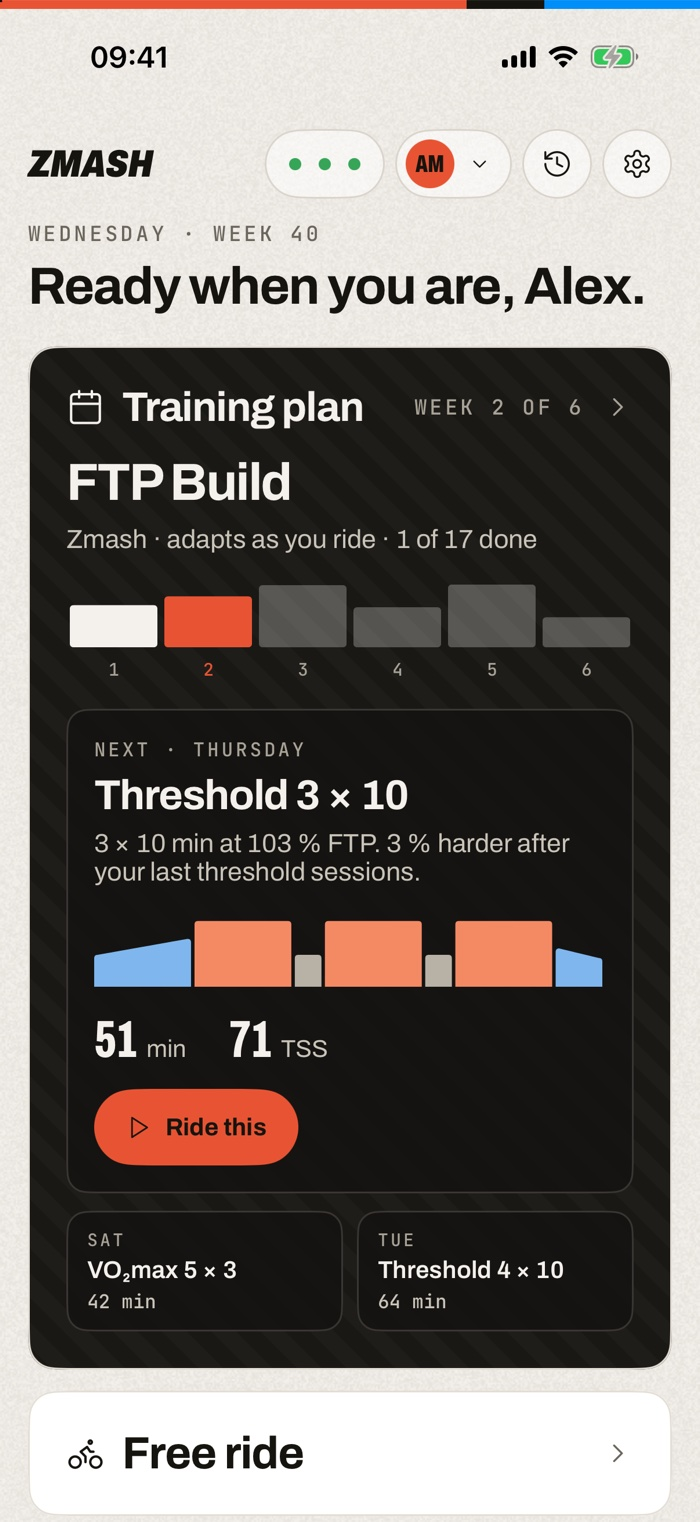
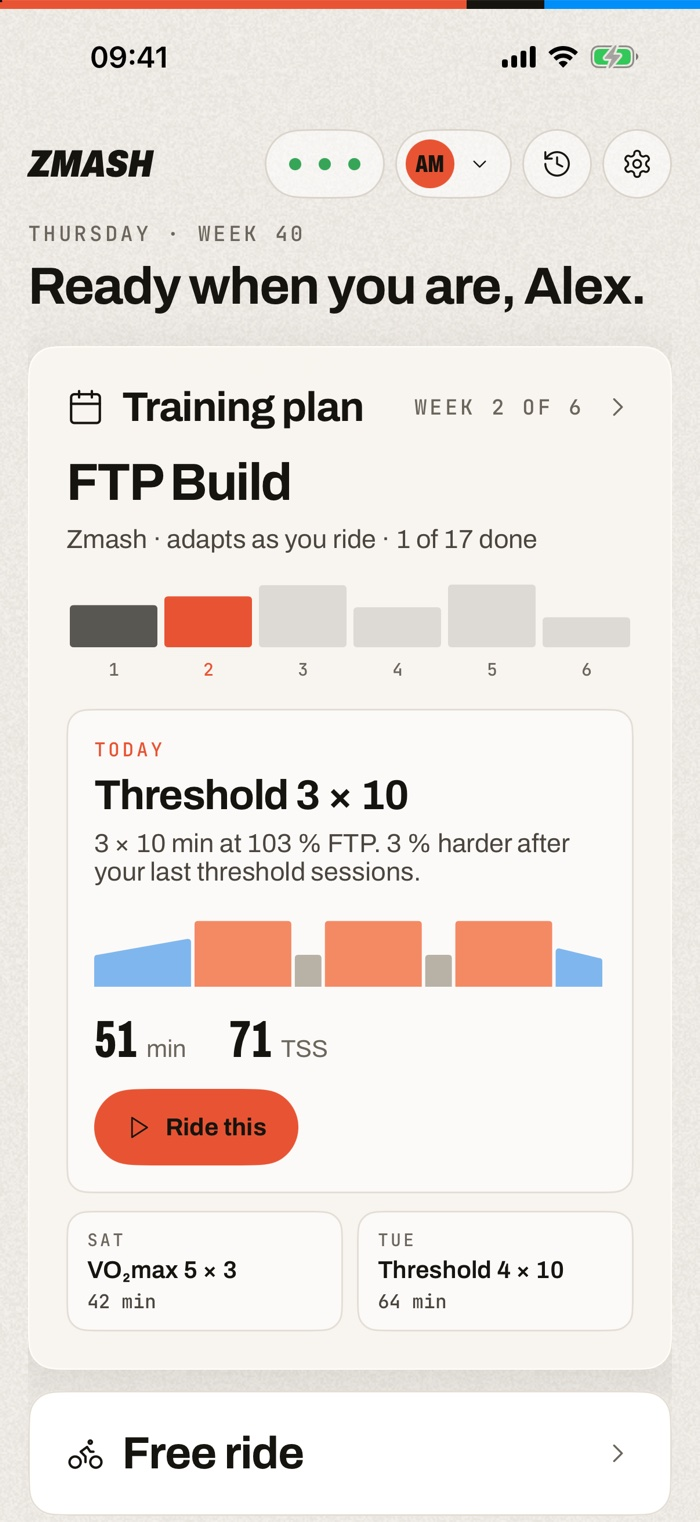
The plan page and a workout's details on glass too (D177)
After home's plan card went to glass (D176), the Plan page's plan and a
workout's details were the last dark heroes beside it. Both are glass now,
with the page's colours. The glass answers a touch only on home's card,
the one that's a button. The README's home, plan, workout and iPhone
screenshots are retaken with the glass.

diff --git a/Zmash/UI/Setup/PlanView.swift b/Zmash/UI/Setup/PlanView.swift
@@ -1,10 +1,10 @@
 import SwiftUI
 import ZmashKit
 
-/// A training plan, Zmash's or the catalog's (D156), as cards (D157). Before you start it: the plan as the hero, beside
-/// how to start it, then its weeks. Once you're on it: the plan as the hero too (D174), with where you are and what you
-/// can change (the plan, your days), beside the next session, then this week's sessions, then every week, the one
-/// you're in ringed.
+/// A training plan, Zmash's or the catalog's (D156), as cards (D157). Before you start it: the plan as the hero, on
+/// glass as on home (D177), beside how to start it, then its weeks. Once you're on it: the plan as the hero too (D174),
+/// with where you are and what you can change (the plan, your days), beside the next session, then this week's
+/// sessions, then every week, the one you're in ringed.
 struct PlanView: View {
     let plan: TrainingPlan
     /// Home's preview goes back to the workout once a session is set up.
@@ -89,26 +89,27 @@ struct PlanView: View {
         let minutes = plan.weeks.map { $0.map(PlanStore.minutes).reduce(0, +) }
         let perWeek = minutes.reduce(0, +) / max(plan.weeks.count, 1)
         return VStack(alignment: .leading, spacing: 0) {
-            Text(PlanPage.source(plan)).monoLabel().foregroundStyle(Design.Palette.fgOnHero2).lineLimit(1)
-            Text(plan.name).textStyle(.display, size: compact ? 30 : 42).foregroundStyle(Design.Palette.fgOnHero)
+            Text(PlanPage.source(plan)).monoLabel().foregroundStyle(Design.Palette.fg3).lineLimit(1)
+            Text(plan.name).textStyle(.display, size: compact ? 30 : 42).foregroundStyle(Design.Palette.fg1)
                 .lineLimit(2).minimumScaleFactor(0.7)
                 .padding(.top, 8)
-            Text(plan.summary).font(Design.Font.sans(15)).foregroundStyle(Design.Palette.fgOnHeroBody)
+            Text(plan.summary).font(Design.Font.sans(15)).foregroundStyle(Design.Palette.fg2)
                 .lineSpacing(3)
                 .frame(maxWidth: 520, alignment: .leading)
                 .fixedSize(horizontal: false, vertical: true)
                 .padding(.top, 8)
             Spacer(minLength: 20)
-            PlanBars(plan: plan, hero: true).frame(height: compact ? 70 : 110)
+            PlanBars(plan: plan, glass: true).frame(height: compact ? 70 : 110)
             Spacer(minLength: 20)
             HStack(alignment: .lastTextBaseline, spacing: 24) {
-                HeroFigure(value: "\(plan.weeks.count)", unit: plan.weeks.count == 1 ? "week" : "weeks")
-                HeroFigure(value: "\(plan.sessionsPerWeek)", unit: "rides a week")
-                HeroFigure(value: String(format: "%d:%02d", perWeek / 60, perWeek % 60), unit: "h a week")
+                HeroFigure(value: "\(plan.weeks.count)", unit: plan.weeks.count == 1 ? "week" : "weeks", hero: false)
+                HeroFigure(value: "\(plan.sessionsPerWeek)", unit: "rides a week", hero: false)
+                HeroFigure(value: String(format: "%d:%02d", perWeek / 60, perWeek % 60), unit: "h a week", hero: false)
             }
         }
         .frame(maxWidth: .infinity, maxHeight: .infinity, alignment: .topLeading)
-        .card(padding: compact ? 22 : 28, hero: true)
+        .padding(compact ? 22 : 28)
+        .glassCard()
     }
 
     /// Your days, this week or next, and Start.
@@ -173,8 +174,7 @@ struct PlanView: View {
         (0..<7).map { (calendar.firstWeekday - 1 + $0) % 7 + 1 }
     }
 
-    /// On the hero (changing your days while on the plan, D174): bone for a day you ride, glass for one you don't.
-    private func dayPicker(_ days: Binding<Set<Int>>, hero: Bool = false) -> some View {
+    private func dayPicker(_ days: Binding<Set<Int>>) -> some View {
         HStack(spacing: 8) {
             ForEach(orderedWeekdays, id: \.self) { d in
                 let on = days.wrappedValue.contains(d)
@@ -183,11 +183,9 @@ struct PlanView: View {
                 } label: {
                     Text(calendar.veryShortWeekdaySymbols[d - 1])
                         .font(Design.Font.label)
-                        .foregroundStyle(hero ? (on ? Design.Tarmac.t900 : Design.Palette.fgOnHero)
-                                              : (on ? Design.Palette.background : Design.Palette.primary))
+                        .foregroundStyle(on ? Design.Palette.background : Design.Palette.primary)
                         .frame(width: 44, height: 44)
-                        .background(Circle().fill(hero ? (on ? Design.Palette.fgOnHero : Design.Tarmac.glass)
-                                                       : (on ? Design.Palette.primary : Design.Palette.surfaceSunk)))
+                        .background(Circle().fill(on ? Design.Palette.primary : Design.Palette.surfaceSunk))
                 }
                 .buttonStyle(.plain)
                 .accessibilityLabel(calendar.weekdaySymbols[d - 1])
@@ -307,18 +305,18 @@ struct PlanView: View {
                               week: Int) -> some View {
         let current = PlanStore.week(e)
         return VStack(alignment: .leading, spacing: 0) {
-            Text(PlanPage.source(plan)).monoLabel().foregroundStyle(Design.Palette.fgOnHero2).lineLimit(1)
-            Text(plan.name).textStyle(.display, size: compact ? 30 : 42).foregroundStyle(Design.Palette.fgOnHero)
+            Text(PlanPage.source(plan)).monoLabel().foregroundStyle(Design.Palette.fg3).lineLimit(1)
+            Text(plan.name).textStyle(.display, size: compact ? 30 : 42).foregroundStyle(Design.Palette.fg1)
                 .lineLimit(2).minimumScaleFactor(0.7)
                 .padding(.top, 8)
             Spacer(minLength: 20)
             // Its weeks as tall as their riding, numbered underneath, as on home.
             VStack(spacing: 6) {
-                PlanBars(plan: plan, hero: true, week: current).frame(height: compact ? 70 : 110)
+                PlanBars(plan: plan, glass: true, week: current).frame(height: compact ? 70 : 110)
                 HStack(spacing: 0) {
                     ForEach(0..<plan.weeks.count, id: \.self) { w in
                         Text("\(w + 1)").font(Design.Font.mono(10))
-                            .foregroundStyle(w == current ? Design.Accent.vermilion : Design.Palette.fgOnHero2)
+                            .foregroundStyle(w == current ? Design.Accent.vermilion : Design.Palette.fg3)
                             .frame(maxWidth: .infinity)
                     }
                 }
@@ -336,11 +334,11 @@ struct PlanView: View {
             Group {
                 if let days = newDays {
                     VStack(alignment: .leading, spacing: 12) {
-                        Text("Your ride days").monoLabel().foregroundStyle(Design.Palette.fgOnHero2)
+                        Text("Your ride days").monoLabel().foregroundStyle(Design.Palette.fg3)
                             .accessibilityAddTraits(.isHeader)
-                        dayPicker(Binding(get: { newDays ?? days }, set: { newDays = $0 }), hero: true)
+                        dayPicker(Binding(get: { newDays ?? days }, set: { newDays = $0 }))
                         HStack(spacing: 8) {
-                            PillButton(title: "Save days", style: .tarmac, compact: true, enabled: !days.isEmpty) {
+                            PillButton(title: "Save days", style: .invert, compact: true, enabled: !days.isEmpty) {
                                 var changed = e
                                 changed.weekdays = days
                                 PlanStore.save(changed)
@@ -348,7 +346,7 @@ struct PlanView: View {
                                 newDays = nil
                             }
                             .fixedSize()
-                            PillButton(title: "Cancel", style: .glass, compact: true) { newDays = nil }.fixedSize()
+                            PillButton(title: "Cancel", compact: true) { newDays = nil }.fixedSize()
                         }
                     }
                 } else {
@@ -358,8 +356,8 @@ struct PlanView: View {
             .padding(.top, 20)
         }
         .frame(maxWidth: .infinity, maxHeight: .infinity, alignment: .topLeading)
-        .card(padding: compact ? 22 : 28, hero: true)
-        .environment(\.onTarmac, true)
+        .padding(compact ? 22 : 28)
+        .glassCard()
     }
 
     private func actions(_ e: PlanEnrolment) -> some View {
@@ -379,16 +377,14 @@ struct PlanView: View {
     @ViewBuilder
     private func changeButtons(_ e: PlanEnrolment) -> some View {
         if let changePlan {
-            PillButton(title: "Change plan", icon: "refresh-cw", style: .glass, compact: true, action: changePlan).fixedSize()
+            PillButton(title: "Change plan", icon: "refresh-cw", compact: true, action: changePlan).fixedSize()
         }
-        PillButton(title: "Ride days", icon: "calendar-days", style: .glass, compact: true) { newDays = e.weekdays }.fixedSize()
+        PillButton(title: "Ride days", icon: "calendar-days", compact: true) { newDays = e.weekdays }.fixedSize()
     }
 
     private var leaveButton: some View {
-        // Quiet on the hatch: the dialog after it asks before anything's lost.
         Button("Leave the plan", role: .destructive) { confirmLeave = true }
-            .font(Design.Font.small).foregroundStyle(Design.Palette.fgOnHero2)
-            .buttonStyle(.plain).frame(minHeight: 44)
+            .font(Design.Font.small).buttonStyle(.plain).frame(minHeight: 44)
             .fixedSize()
     }
 
@@ -541,10 +537,9 @@ struct PlanView: View {
 
     /// A session's shape: the climb's profile, or the workout's blocks at its notch.
     @ViewBuilder
-    private func shape(_ w: Int, _ i: Int, hero: Bool = false) -> some View {
+    private func shape(_ w: Int, _ i: Int) -> some View {
         if case .route(let id) = plan.weeks[w][i], let route = RaceStore.climb(id: id)?.route {
-            RouteStrip(route: route, color: hero ? Design.Palette.fgOnHero : Design.Palette.fg1,
-                       fill: hero ? Design.Accent.teamBlue.opacity(0.38) : Design.Palette.terrainFill)
+            RouteStrip(route: route)
         } else if let workout = PlanStore.workout(id: "plan/\(plan.id)/\(w)-\(i)") {
             WorkoutStrip(workout: workout.drawable)
         }

diff --git a/Zmash/UI/Home/WorkoutDetail.swift b/Zmash/UI/Home/WorkoutDetail.swift
@@ -54,14 +54,14 @@ struct WorkoutDetail: View {
         let work = zones.dropFirst(2).reduce(0, +)
         return VStack(alignment: .leading, spacing: 0) {
             HStack(spacing: 10) {
-                Tag(title: kind.title, color: Design.Palette.fgOnHero)
-                Text(source).monoLabel().foregroundStyle(Design.Palette.fgOnHero2).lineLimit(1)
+                Tag(title: kind.title, color: Design.Palette.fg1)
+                Text(source).monoLabel().foregroundStyle(Design.Palette.fg3).lineLimit(1)
             }
-            Text(workout.name).textStyle(.display, size: compact ? 30 : 40).foregroundStyle(Design.Palette.fgOnHero)
+            Text(workout.name).textStyle(.display, size: compact ? 30 : 40).foregroundStyle(Design.Palette.fg1)
                 .lineLimit(2).minimumScaleFactor(0.7)
                 .padding(.top, 12)
             if !workout.summary.isEmpty {
-                Text(workout.summary).font(Design.Font.sans(15)).foregroundStyle(Design.Palette.fgOnHeroBody)
+                Text(workout.summary).font(Design.Font.sans(15)).foregroundStyle(Design.Palette.fg2)
                     .lineSpacing(3).lineLimit(8)
                     .frame(maxWidth: 560, alignment: .leading)
                     .fixedSize(horizontal: false, vertical: true)
@@ -78,18 +78,19 @@ struct WorkoutDetail: View {
             .padding(.top, 22)
         }
         .frame(maxWidth: .infinity, alignment: .topLeading)
-        .card(padding: compact ? 22 : 28, hero: true)
+        .padding(compact ? 22 : 28)
+        .glassCard()
     }
 
     private func figures(load: Training.Load, work: Int) -> some View {
         HStack(alignment: .lastTextBaseline, spacing: 24) {
             if workout.isRampTest {
-                HeroFigure(value: "~20", unit: "min, until you stop")
+                HeroFigure(value: "~20", unit: "min, until you stop", hero: false)
             } else {
-                HeroFigure(value: "\(workout.duration / 60)", unit: "min")
-                HeroFigure(value: "\(Int(load.tss.rounded()))", unit: "TSS")
-                HeroFigure(value: String(format: "%.2f", load.intensityFactor).replacingOccurrences(of: "0.", with: "."), unit: "IF")
-                if work >= 60 { HeroFigure(value: "\(work / 60)", unit: "min of work") }
+                HeroFigure(value: "\(workout.duration / 60)", unit: "min", hero: false)
+                HeroFigure(value: "\(Int(load.tss.rounded()))", unit: "TSS", hero: false)
+                HeroFigure(value: String(format: "%.2f", load.intensityFactor).replacingOccurrences(of: "0.", with: "."), unit: "IF", hero: false)
+                if work >= 60 { HeroFigure(value: "\(work / 60)", unit: "min of work", hero: false) }
             }
         }
     }
@@ -104,7 +105,7 @@ struct WorkoutDetail: View {
             Spacer()
             Text(TimeFormat.clock(d))
         }
-        .font(Design.Font.mono(11)).foregroundStyle(Design.Palette.fgOnHero2)
+        .font(Design.Font.mono(11)).foregroundStyle(Design.Palette.fg3)
         .accessibilityHidden(true)
     }
 

diff --git a/Zmash/UI/DesignSystem/Components.swift b/Zmash/UI/DesignSystem/Components.swift
@@ -162,14 +162,15 @@ extension View {
             .environment(\.onHero, hero)
     }
 
-    /// A pane of glass (D176), for the plan on home: lighter than the hatch hero, and still set apart from the plain
-    /// cards. The system's Liquid Glass from iOS 26, which lights its edges and answers a touch; before that, frosted
-    /// material with a hairline.
+    /// A pane of glass (D176, D177), for the hero cards (the plan on home and on its page, a workout's details):
+    /// lighter than the hatch, and still set apart from the plain cards. The system's Liquid Glass from iOS 26, which
+    /// lights its edges, and answers a touch when the card is a button (`interactive`); before that, frosted material
+    /// with a hairline.
     @ViewBuilder
-    func glassCard(radius: CGFloat = Design.Radius.lg) -> some View {
+    func glassCard(radius: CGFloat = Design.Radius.lg, interactive: Bool = false) -> some View {
         let shape = RoundedRectangle(cornerRadius: radius, style: .continuous)
         if #available(iOS 26.0, *) {
-            self.glassEffect(.regular.interactive(), in: shape)
+            self.glassEffect(interactive ? .regular.interactive() : .regular, in: shape)
         } else {
             self.background {
                 shape.fill(.ultraThinMaterial)

diff --git a/Zmash/UI/Home/HomeCards.swift b/Zmash/UI/Home/HomeCards.swift
@@ -144,7 +144,7 @@ struct PlanHero: View {
         }
         .padding(compact ? 22 : 28)
         .frame(maxWidth: .infinity, maxHeight: .infinity, alignment: .topLeading)
-        .glassCard()
+        .glassCard(interactive: true)
         .contentShape(RoundedRectangle(cornerRadius: Design.Radius.lg))
         .onTapGesture { if let entry = plannedToday { openWorkout(session(entry)) } else { open() } }
         .accessibilityAction(named: plannedToday == nil ? "Open the plans" : "Open the workout") {

diff --git a/CLAUDE.md b/CLAUDE.md
@@ -63,14 +63,14 @@ make workouts      # build Zmash/Resources/Workouts/catalog.json from the .zwo f
 - **The UI follows the design system:** `design/Zmash Design System/`. Its readme and `Zmash Tablet App.dc.html` (the prototype) are the reference for layout and components.
   - Tokens: `Design.Palette` / `Font` / `Space` / `Radius` / `Motion`, `.textStyle`, `.monoLabel`, `.card()`, `CardBackground(hero:)`.
   - Shapes: pills for buttons, chips and tabs; 16-pt cards with 1-pt borders and no shadows; a vermilion ring for "chosen".
-  - Home's plan card is glass (`.glassCard()`, D176), on purpose: the one exception to the hatch hero.
+  - The plan (on home and its page) and a workout's details are glass heroes (`.glassCard()`, D176, D177), on purpose; the campaign card and Palmarès keep the hatch.
   - Don't add bib numbers (01, 02…) to cards: the user removed them.
 - **Voice:** a calm teammate. Short, direct, second person, sentence case, no exclamation marks or emoji. Mono uppercase is for small labels only.
 - **Comments:** explain *why*. Follow the surrounding density: doc comments on types and non-obvious members, often citing the decision (`(D151)`).
 
 ## Working conventions
 
-- **Record every change** in `DECISIONS.md`, as the next **D-number** (the last is D176). Add checks that need real hardware to `TESTING.md`.
+- **Record every change** in `DECISIONS.md`, as the next **D-number** (the last is D177). Add checks that need real hardware to `TESTING.md`.
 - **Commits:** small, one per decision, with a message saying what and why.
 - **Licences:** `external sources/` holds other projects for reference (Auuki is AGPL). Re-implement ideas from public specs, never copy code.
 - **Checking UI changes:** build, then take Simulator screenshots using `DebugLaunch`'s launch arguments. The main ones:

diff --git a/DECISIONS.md b/DECISIONS.md
@@ -1191,6 +1191,12 @@ Plans now have a goal (Build, Climb, Endurance, Maintain), and the picker groups
 - **The plan's weeks stay quiet** (`PlanBars(glass:)`), as on the hatch: weeks ridden in soft ink, the ones to come faint, and yours in vermilion. The page's light blue for the weeks to come drowned it out.
 - Light and dark both; the Plan page's own hero (D174) is still the hatch.
 
+**D177. The plan page and a workout's details on glass too (2026-10-01).** After D176, the Plan page's plan and a workout's details were the last dark heroes next to home's glass one.
+- **Both are glass** (`.glassCard()`), with the page's colours: the plan's quiet weeks (`PlanBars(glass:)`), ink figures, and the Change plan, Ride days and day buttons as on the plain cards.
+- **The glass answers a touch only where the card is a button** (`glassCard(interactive:)`): home's plan card, which opens the Plan page. The other two are content.
+- **Still the hatch:** the campaign card on Routes and the Palmarès hero.
+- **The README** has new home, plan, workout and iPhone screenshots, with the glass.
+
 ## Known gaps (need the user's hardware)
 
 Everything still to check on real hardware is in [TESTING.md](TESTING.md).

diff --git a/TESTING.md b/TESTING.md
@@ -130,6 +130,10 @@ Tick a box when a check passes. When one doesn't, write down what you saw next t
 
 ## Away from the bike
 
+### The look
+
+- [ ] On the iPad and the iPhone, in light and dark: home's plan card, the Plan page's plan and a workout's details are glass (light, frosted, a lit edge), and their text reads clearly. Home's plan card brightens a little under your finger (D176, D177).
+
 ### Your data
 
 - [ ] Settings → Your data → Export rides as FIT: the folder in Files has one `.fit` per ride, and one opens in Strava or Garmin Connect (D134).
